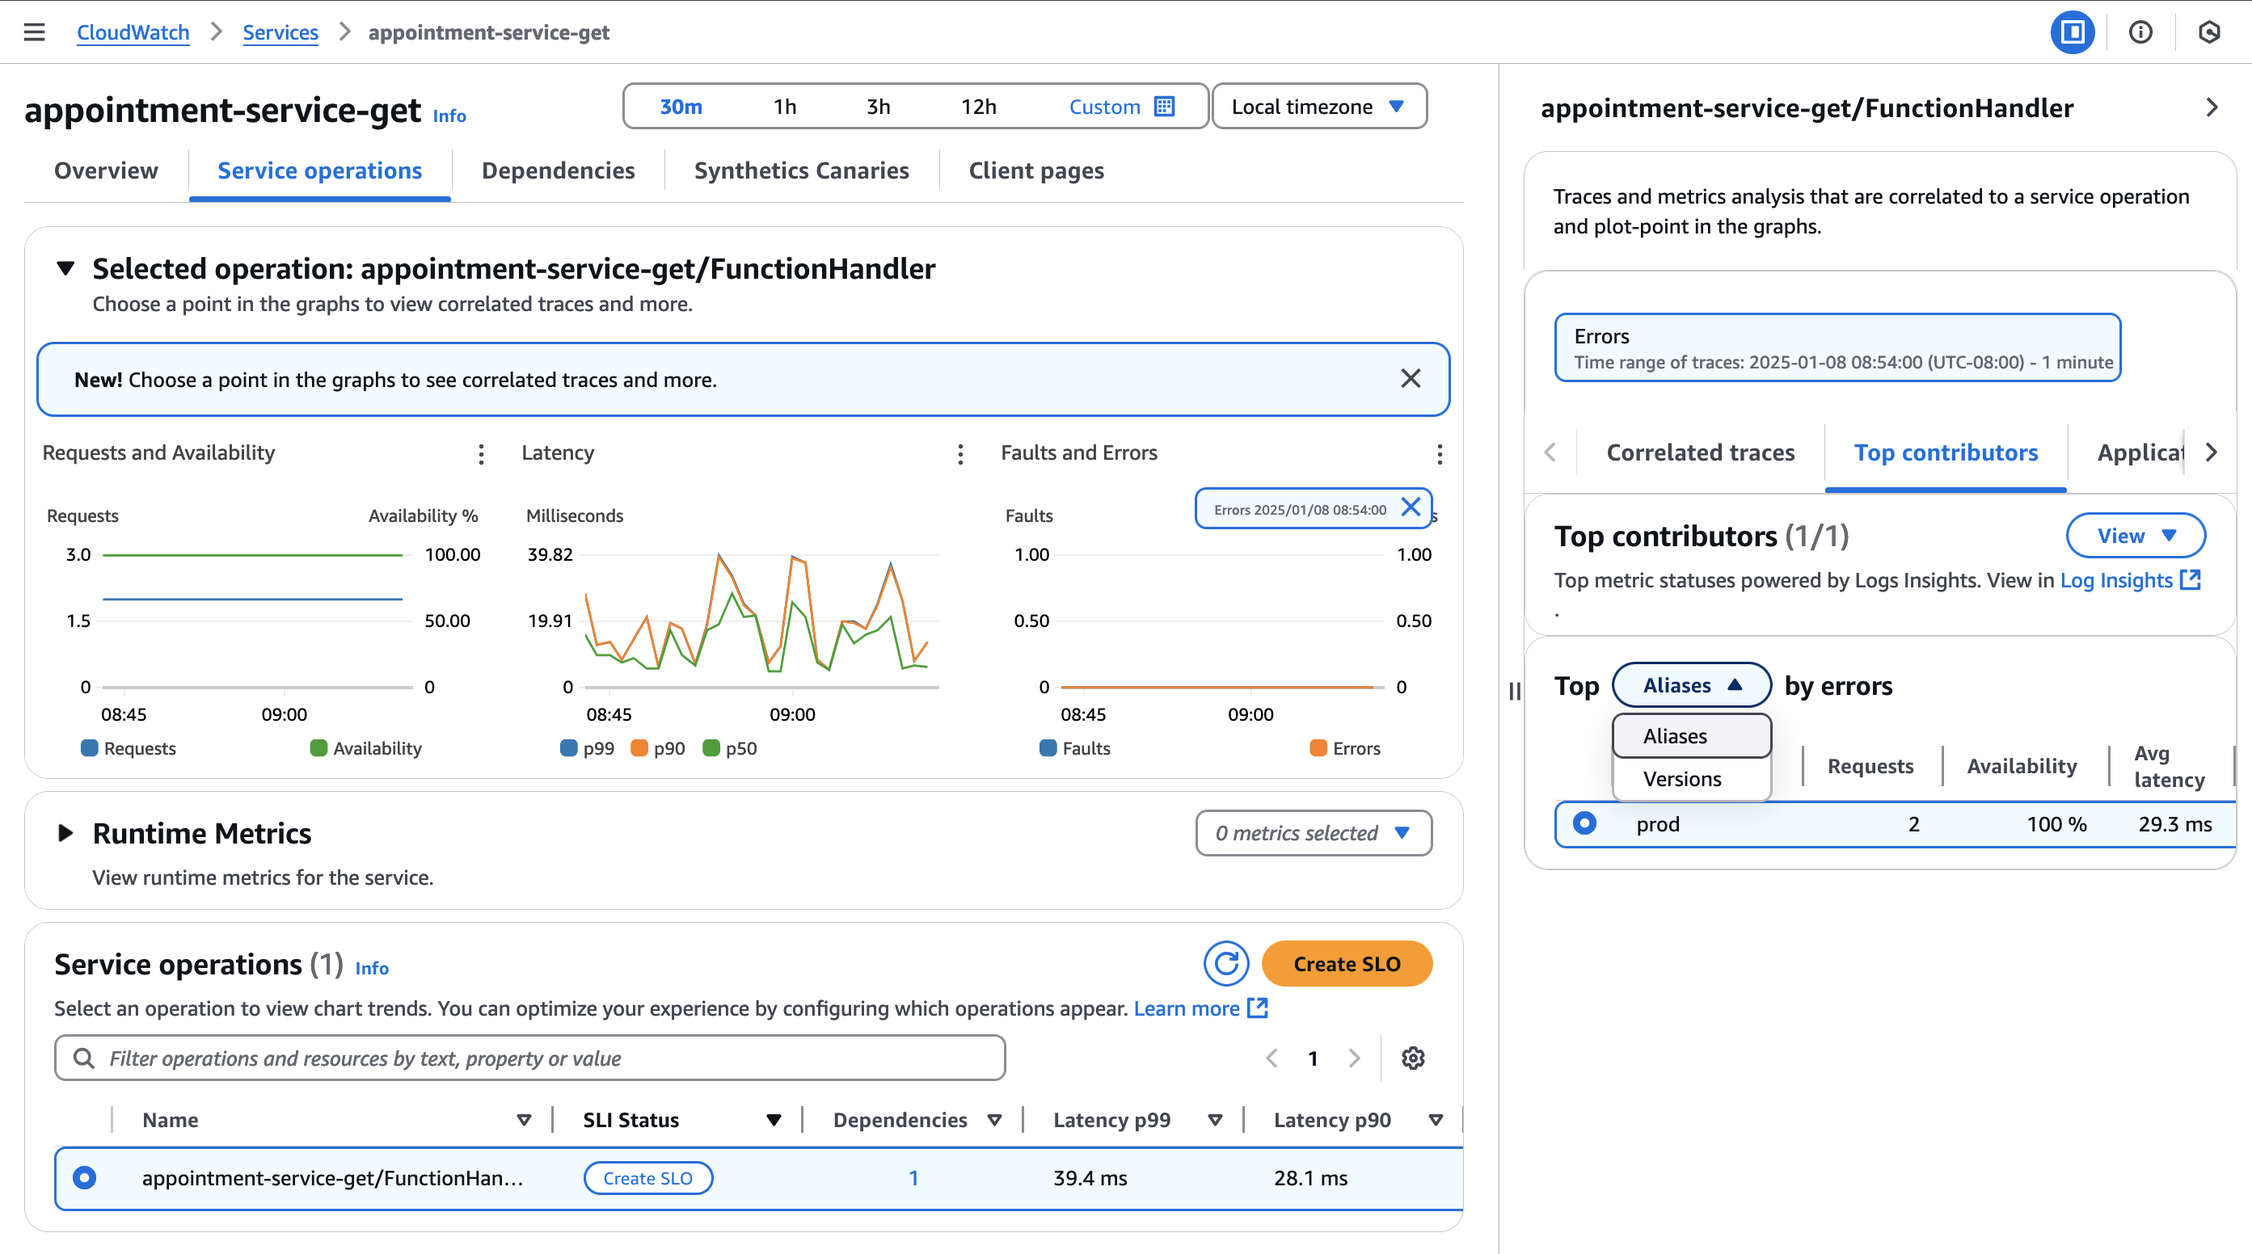
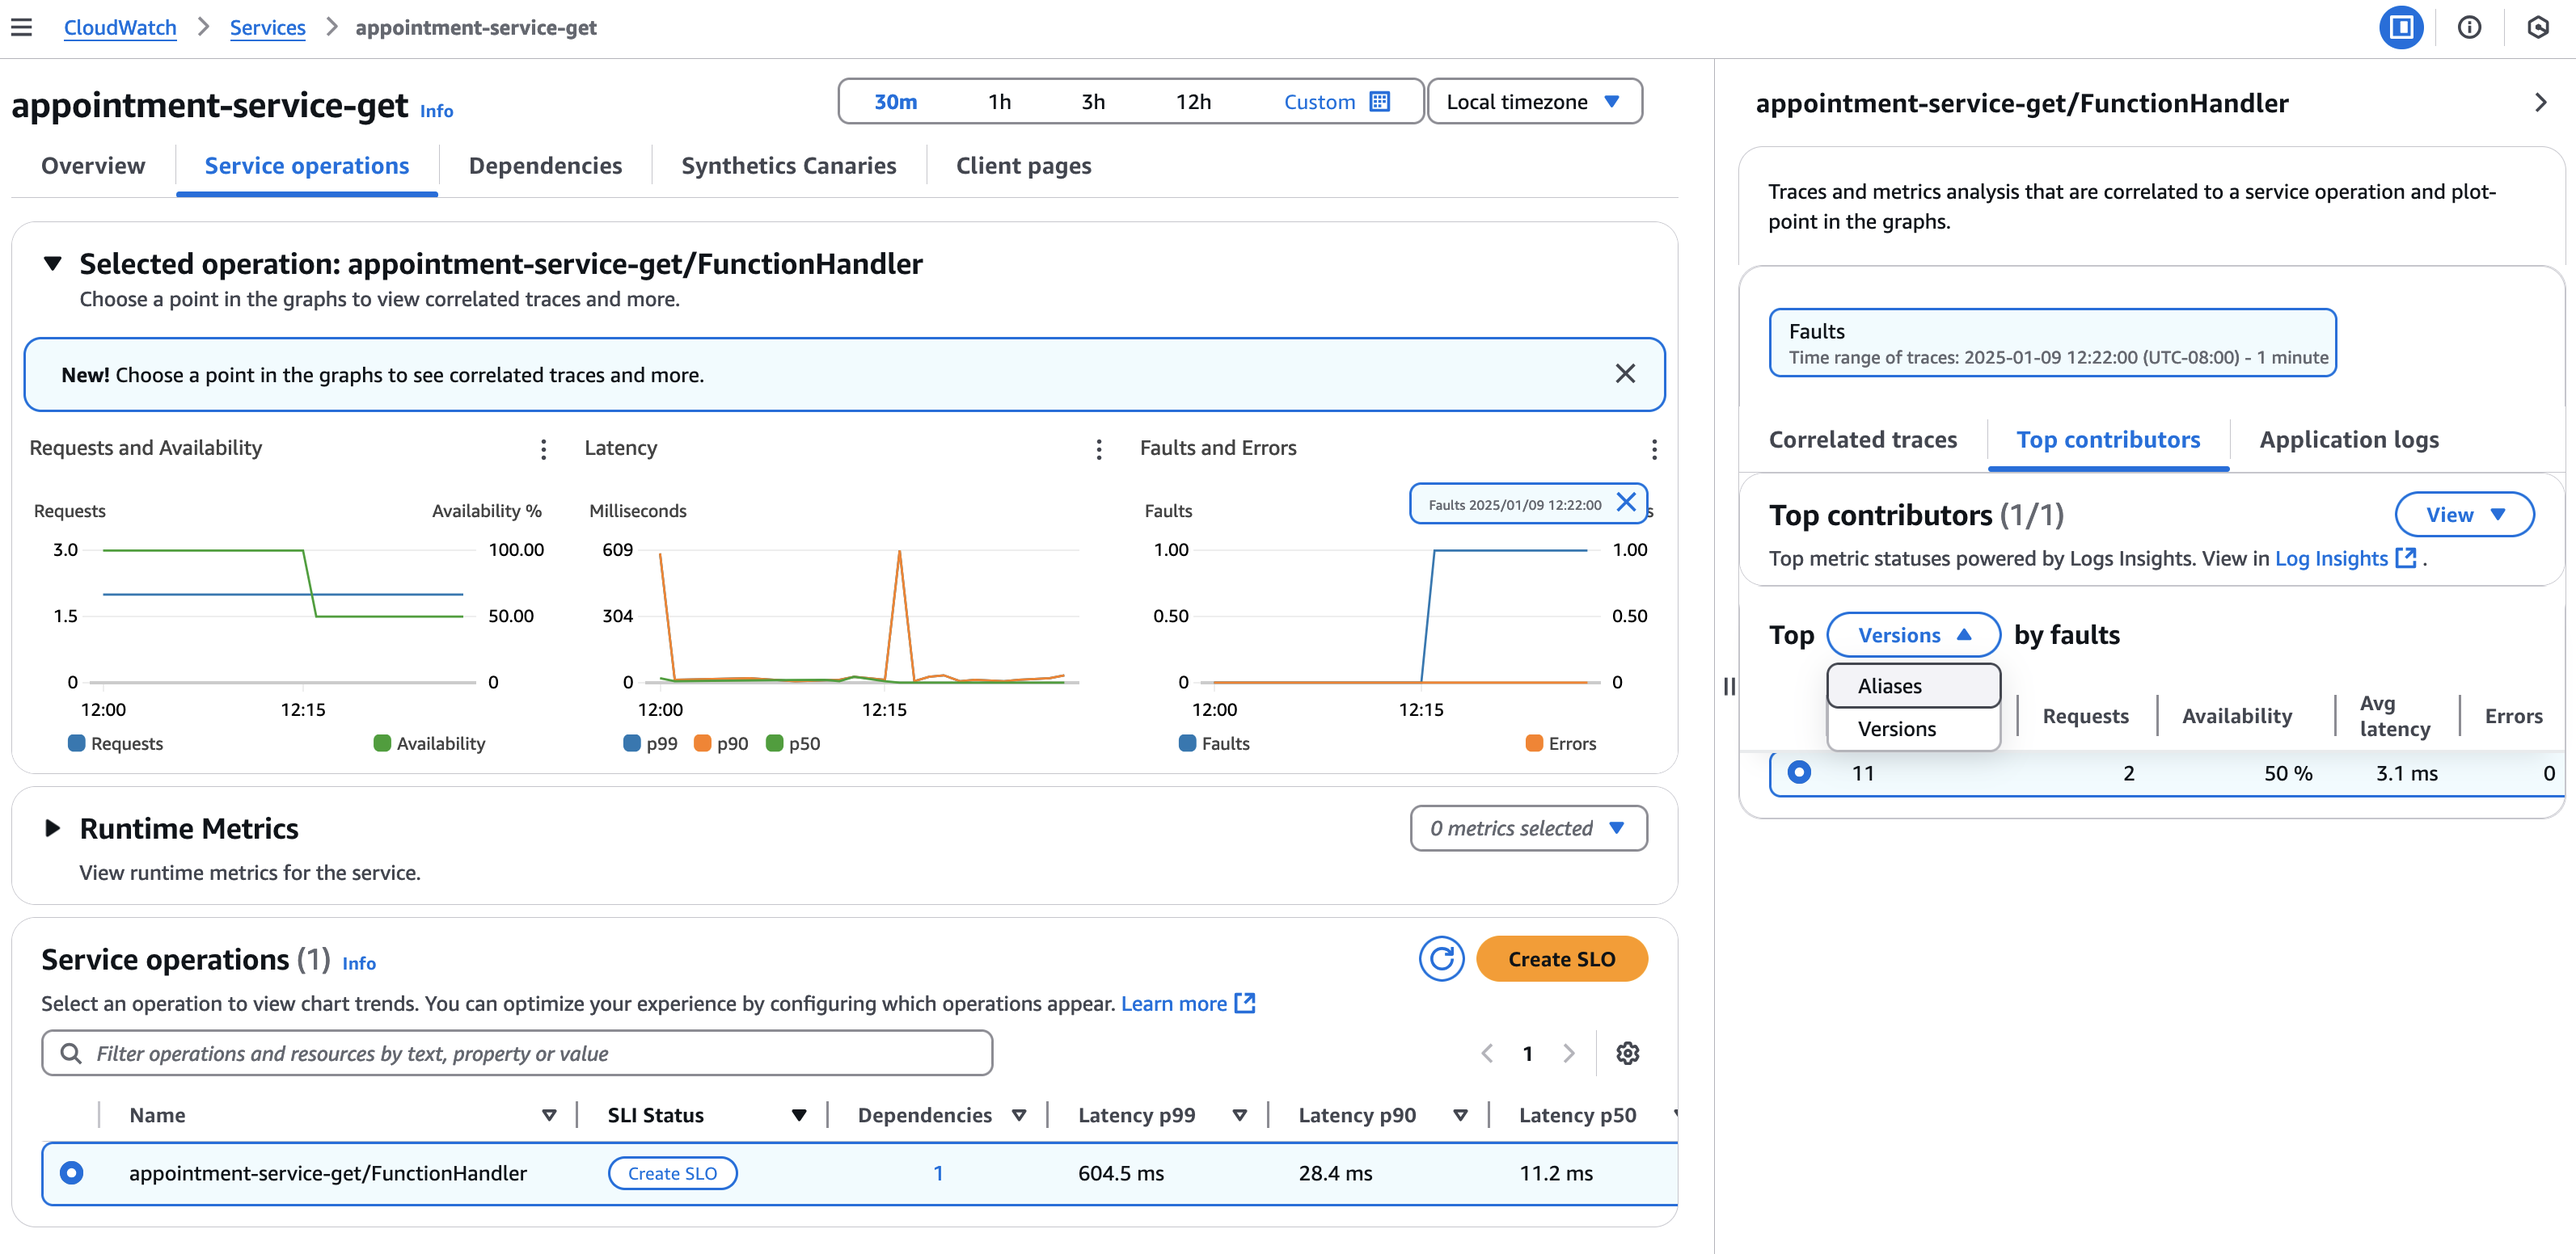
Add details in Lambda demo

diff --git a/lambda-petclinic/sample-apps/function3/lambda_function.py b/lambda-petclinic/sample-apps/function3/lambda_function.py
@@ -22,6 +22,9 @@ def lambda_handler(event, context):
     if owners is None or pet_id is None:
         raise Exception('Missing owner or pet_id')
 
+    if pet_id == "777777777777":
+        raise Exception('Exception happens')
+
     if record_id is None:
         return {
             'statusCode': 400,

diff --git a/doc/lambda_demo.md b/doc/lambda_demo.md
@@ -38,13 +38,18 @@ Application Signals for AWS Lambda provides detailed insights into function exec
 The demo will install three Lambda functions: appointment-service-create, appointment-service-get, and appointment-service-list. These functions will be automatically invoked periodically to generate signals for the demo. Users can follow the documentation below to observe the expected results in the CloudWatch Console.
 
 ## Expected Results
-- **Application Signals Services**: 
+- **Application Signals Services**
   - The Lambda functions are detected and displayed under __Services__.
   ![](./imgs/lambda_0.png)
-- **In Lambda service**:
-    - Clicking a data point in the metrics dashboard, you can correlate it with a trace in the __Correlated Traces__.
-      ![](./imgs/lambda_2.png)
-    - Clicking a data point in the metrics dashboard, you can further drill down by selecting the Lambda function's Alias or 
-      Version in the __Top Contributors__
+- **In Lambda service**, Click `appointment-service-get`
+    - Click a data point in the metrics dashboard, you can further drill down by selecting the Lambda function's Alias or 
+      Version in the __Top Contributors__ tab. This allows users to easily observe differences in Availability and Latency 
+      across different Lambda aliases or versions.
       ![](./imgs/lambda_1.png)
+    - Click a data point in the Faults and Errors metrics dashboard, __Correlated Traces__ tab shows a list of traces.
+      ![](./imgs/lambda_2.png)
+    - Examine the first trace Id. This is taking us to the trace details page, which has both trace map as well as the spans 
+      timeline information. Click on the red icon “appointment-service-get”, which is our lambda, and under the Exceptions tab,
+      you will find the stack trace message.
+      ![](./imgs/lambda_3.png)
 
